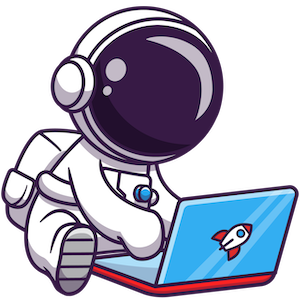
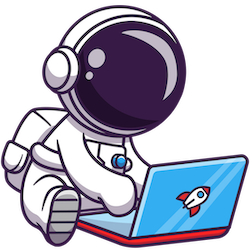
fix: shrink image to fix overlay issues with footer

diff --git a/src/components/WelcomeScreen.vue b/src/components/WelcomeScreen.vue
@@ -19,7 +19,7 @@ export default {
 </script>
 
 <template>
-  <article class="screen">
+  <article class="welcome">
     <img class="welcome-astronaut" :src="heroImage.src" :alt="heroImage.alt" />
     <h1>
       Launching with
@@ -50,7 +50,7 @@ export default {
 <style>
 .welcome-astronaut {
   max-width: 100%;
-  margin-bottom: 3rem;
+  margin-bottom: 2rem;
   animation: hovering 3s infinite ease-in-out;
 }
 
